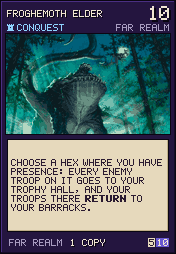
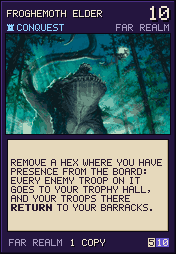
Stage NE-30: Froghemoth Elder removes the hex from the board for real (new graph without its sites, slots and the dead ends it leaves; the board schematic is repainted without them), Eye Monger set-aside cards shown left of the hand; PROTOCOL 36

Changed region(s): [[0.0568, 0.6614, 0.8523, 0.8543], [0.0568, 0.6063, 0.1705, 0.6614], [0.1989, 0.6063, 0.2273, 0.6614]]

diff --git a/Claude outputs/new_era_void.md b/Claude outputs/new_era_void.md
@@ -1,4 +1,4 @@
-# New Era: Void → FAR REALM (этапы NE-28, NE-29)
+# New Era: Void → FAR REALM (этапы NE-28…30)
 
 Полуколода Void из мода Runeterra Reforged (картинки PDF **232–251**) на существах Далёкого Предела и Астрала: звёздные порождения, слаады, гит, три-крины. Ключ `void`, тип `FAR REALM`, id **50000–50020** (50009 свободен). Флаг `wip` — только кнопкой FAR REALM в режиме NEW ERA. **NE-29 (владелец): 40 карт / 20 уникальных** — Githzerai Monk, Hook Horror, Gray Slaad, Githyanki Dracomancer и Githyanki Warrior по 3 копии (было по 4). PROTOCOL 35.
 
@@ -36,13 +36,13 @@
 Все арты — со сценой-фоном (проверка `art_bgcheck.gd` + контакт-лист). Книги Monsters of the Multiverse (star spawn, kruthik, oblex, choldrith, neothelid) дают только вырезанные фигуры — не взяты.
 
 ## Толкования (мои — проверить владельцу)
-- **Froghemoth Elder (Cho'Gath)** «Remove a hex where you have presence…» — **гекс с доски не убирается**: все вражеские войска (и белые) этого гекса уходят в трофейный зал, свои — в барак. Гекс выбирается щелчком по любой его локации. Убрать гекс по-настоящему (дыра в доске) — большая переделка доски и интерфейса; если нужно — отдельным этапом.
+- **Froghemoth Elder (Cho'Gath)** «Remove a hex where you have presence» — **NE-30 (владелец): гекс уходит с доски по-настоящему.** Выбор — щелчком по любой локации гекса, где есть Присутствие. Все вражеские войска (и белые) гекса — в трофейный зал, свои — в барак, шпионы — хозяевам; его локации и места исчезают из игры (новый граф: `VoidCards.remove_hex` → `MapGraph.without_hex`). Тупиков в игре нет: места туннелей соседей, которые вели только в этот гекс, тоже убираются (`prune_dead_ends`, войска с них — хозяевам). На экране гекс и его туннели просто не рисуются (виден фон). Присутствие через убранный гекс больше не проходит. Если съеден гекс A2 — нет и бонуса A2 (рамка и табличка исчезают).
 - **Githzerai Zerth (Kassadin)** «Whenever you Assassinate, you may Assassinate anywhere» — до конца хода любое убийство (карты и базовое за 3 Power) — без Присутствия. Supplant сюда не входит.
 - **Thri-kreen Marauder (Kha'Zix)** «For every 4 troops in your trophy hall, gain one of these abilities permanently» — способности копятся у игрока навсегда (`PlayerState.evolutions`, не больше 4): при розыгрыше добирается по одной на каждые 4 трофея, потом срабатывают все накопленные.
 - **Red Slaad (Kog'Maw)** «3 spaces away» — до 3 шагов по слотам от своего войска (слоты одной локации — одно место). Действует на deploy (карты и базовое), assassinate и supplant.
 - **Inquisitor of the Mind Fire (Malzahar)** — «another card effect deploys troops»: только эффекты «Deploy N troops» карт (не supplant и не базовое действие), +2 войска один раз на каждую такую карту; свои +2 не размножаются.
 - **Elder Thing (Undertitan)** — перед каждым «Deploy X troops» карты в этот ход вопрос «Deploy X troops / +X Power instead» (свой Deploy 3 тоже).
-- **Eye Monger (Vel'Koz)** — отложенные карты лежат в `Deck.set_aside` (видно в журнале), разыгрываются в начале каждого хода владельца до конца партии, обе считаются в deck VP. Отдельного места на экране для них пока нет.
+- **Eye Monger (Vel'Koz)** — отложенные карты лежат в `Deck.set_aside` (видно в журнале), разыгрываются в начале каждого хода владельца до конца партии, обе считаются в deck VP. **NE-30:** на экране — отдельным рядом слева от руки с подписью SET ASIDE (не кликаются).
 - **Lesser Star Spawn Emissary (Hatchling)** — «если не ставил войск за ход» — считаются войска от карт, базового deploy и supplant.
 - **Blue Slaad (Void Abomination)** — шпион на карте рынка: соперник покупает её, только заплатив 3 Power (шпион уходит хозяину), и тогда она стоит ему на 6 дешевле; бесплатно (Recruit free) соперник её не берёт. Карта ушла из слота любым путём — шпион возвращается хозяину. На рынке — надпись SPY цвета хозяина.
 - **Green Slaad (Camouflaged Horror)** — три верхние карты колоды рынка сразу уходят под низ, выбранная (цена до 5) разыгрывается бесплатно, сама остаётся в колоде рынка.
@@ -55,5 +55,5 @@
 3. Inquisitor of the Mind Fire, потом Hook Horror «Deploy 3»: ставится 3 + 2 войска.
 4. Red Slaad: подсвечиваются слоты для войск дальше обычного Присутствия.
 5. Blue Slaad «Place a spy on a market card»: у соперника на карте SPY; без 3 Power купить нельзя, с 3 Power цена на 6 меньше.
-6. Eye Monger: отложить карту из руки; в начале следующего хода она разыгрывается сама.
-7. Froghemoth Elder: щелчок по локации — весь гекс пустеет, трофеи растут.
+6. Eye Monger: отложить карту из руки — она и Eye Monger стоят слева от руки (SET ASIDE); в начале следующего хода отложенная разыгрывается сама.
+7. Froghemoth Elder: щелчок по локации — гекс исчезает с доски вместе с туннелями; вражеские войска с него в трофеях, свои в бараке.

diff --git a/Claude outputs/new_era_handoff.md b/Claude outputs/new_era_handoff.md
@@ -35,7 +35,8 @@
 - В view: `market_spies`, `starting_troops`, у игрока `set_aside`, `evolutions`. События журнала: `devour_hex`, `evolve`, `set_aside`, `set_aside_play`, `reveal_top`, `market_reveal`, `play_free`, `market_spy`.
 - `pixel_cards.gd -- only=50000,50004` — перерисовать только эти карты (без листов превью), ~1 мин вместо 8.
 - **NE-29:** 40/20 — пять карт с 4 копиями (Githzerai Monk, Hook Horror, Gray Slaad, Githyanki Dracomancer, Githyanki Warrior) по 3; подписи копий на картах — `pixel_cards.gd -- copies`.
-- **Ждёт владельца:** (1) живая проверка; (2) толкования в справке, главное — Froghemoth Elder (Cho'Gath) гекс с доски не убирает; (3) кадр Groundling Stalker тёмный; (4) отложенные карты Eye Monger на экране не показаны (только журнал).
+- **NE-30 (владелец):** Froghemoth Elder убирает гекс с доски по-настоящему (новый граф без гекса и тупиков; `GameState.removed_hexes / removed_slots`, в view; `BoardPanel._without_removed` перерисовывает схему без них, без «пустоты»); отложенные карты Eye Monger — рядом слева от руки (`HandPanel._sync_aside`).
+- **Ждёт владельца:** (1) живая проверка; (2) остальные толкования в справке; (3) кадр Groundling Stalker тёмный.
 
 ## NE-26…27 (2026-10-17): Bandle City → FEYWILD — задеплоено (сборка 1792248295, PROTOCOL 34)
 - Ключ `bandle`, тип `FEYWILD`, id 49900–49922 (49907 свободен, 49921 Goblin Hexer и 49922 Faerie Dragon Adult не в рынке), `wip` (кнопка FEYWILD в NEW ERA, фон — зелёный луг). Эффекты `core/cards/bandle_cards.gd`, тест `test_feywild_deck`, справка и толкования — `Claude outputs/new_era_bandle.md`, лист — `Claude outputs/feywild_cards_all.png`, арты — `cards/bandle/` (кандидаты `cards/bandle/cand*` не в git).
